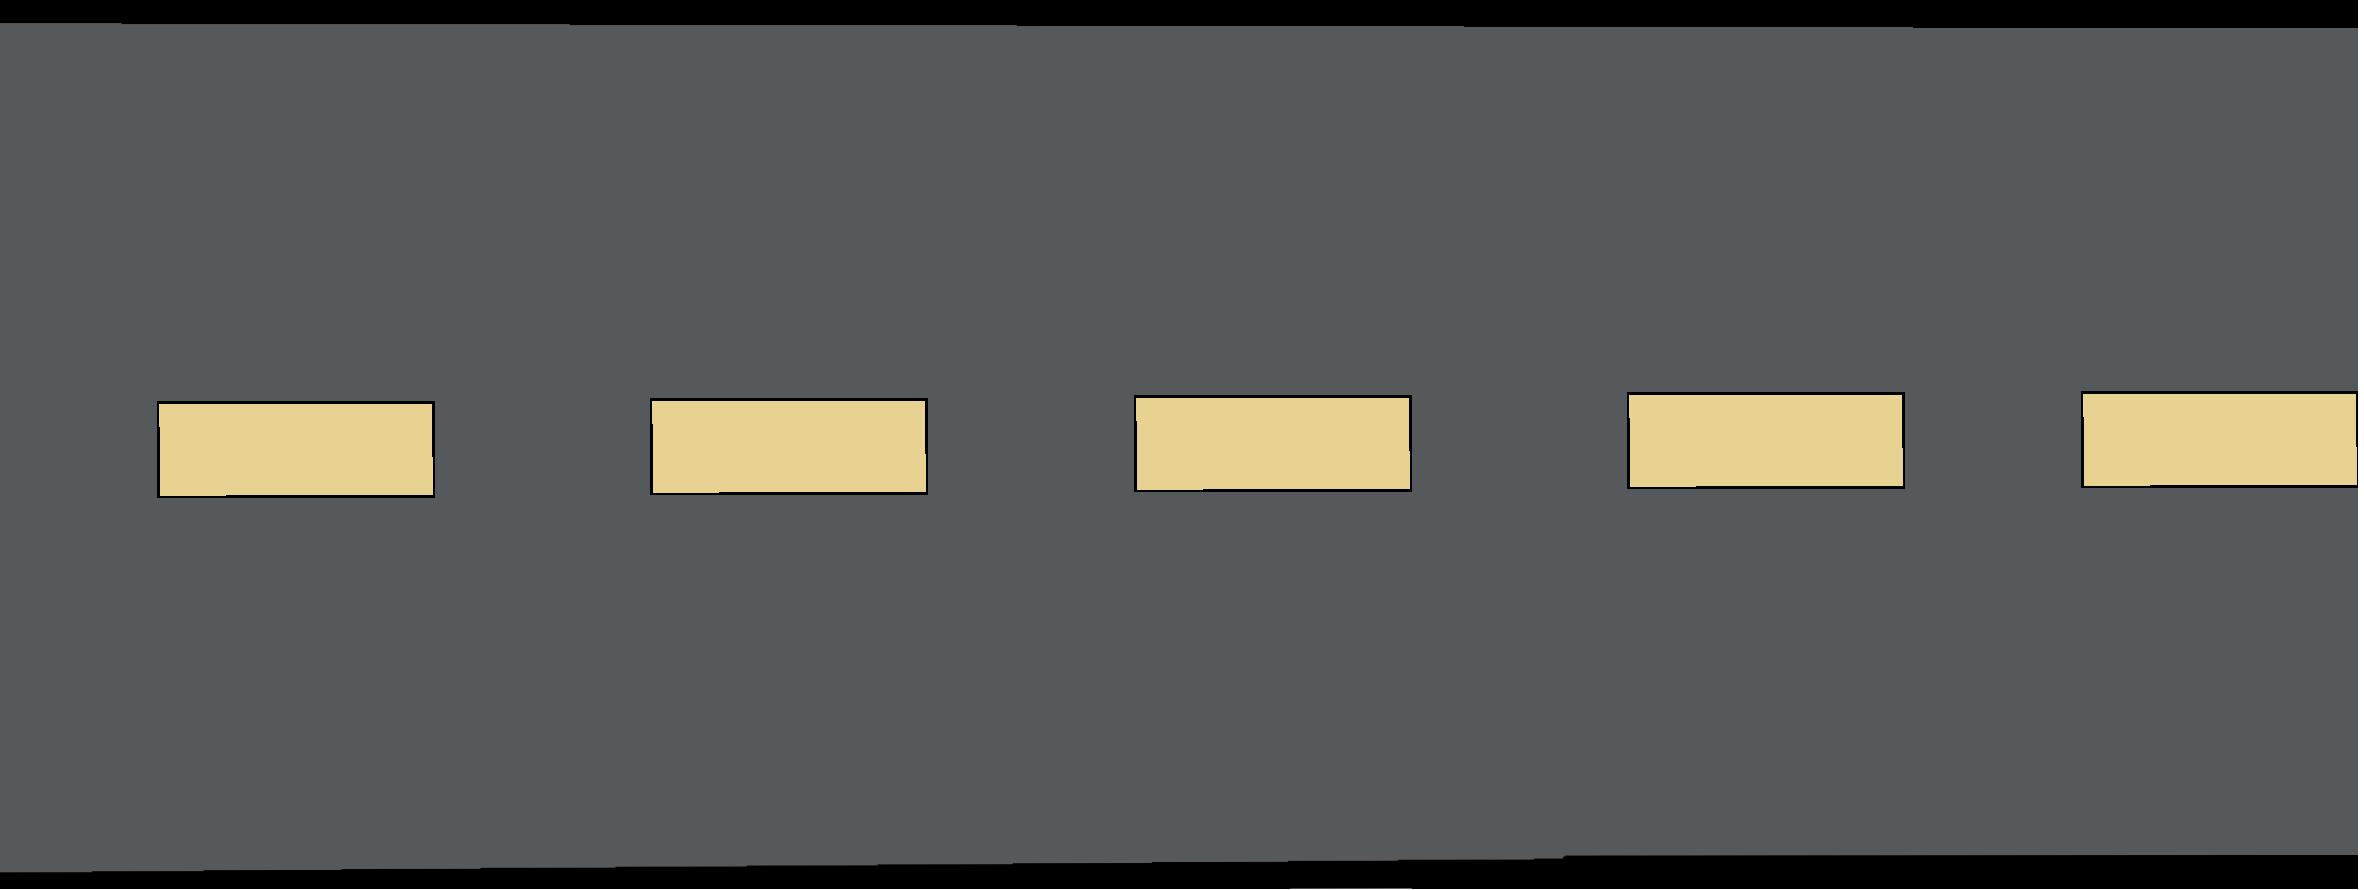
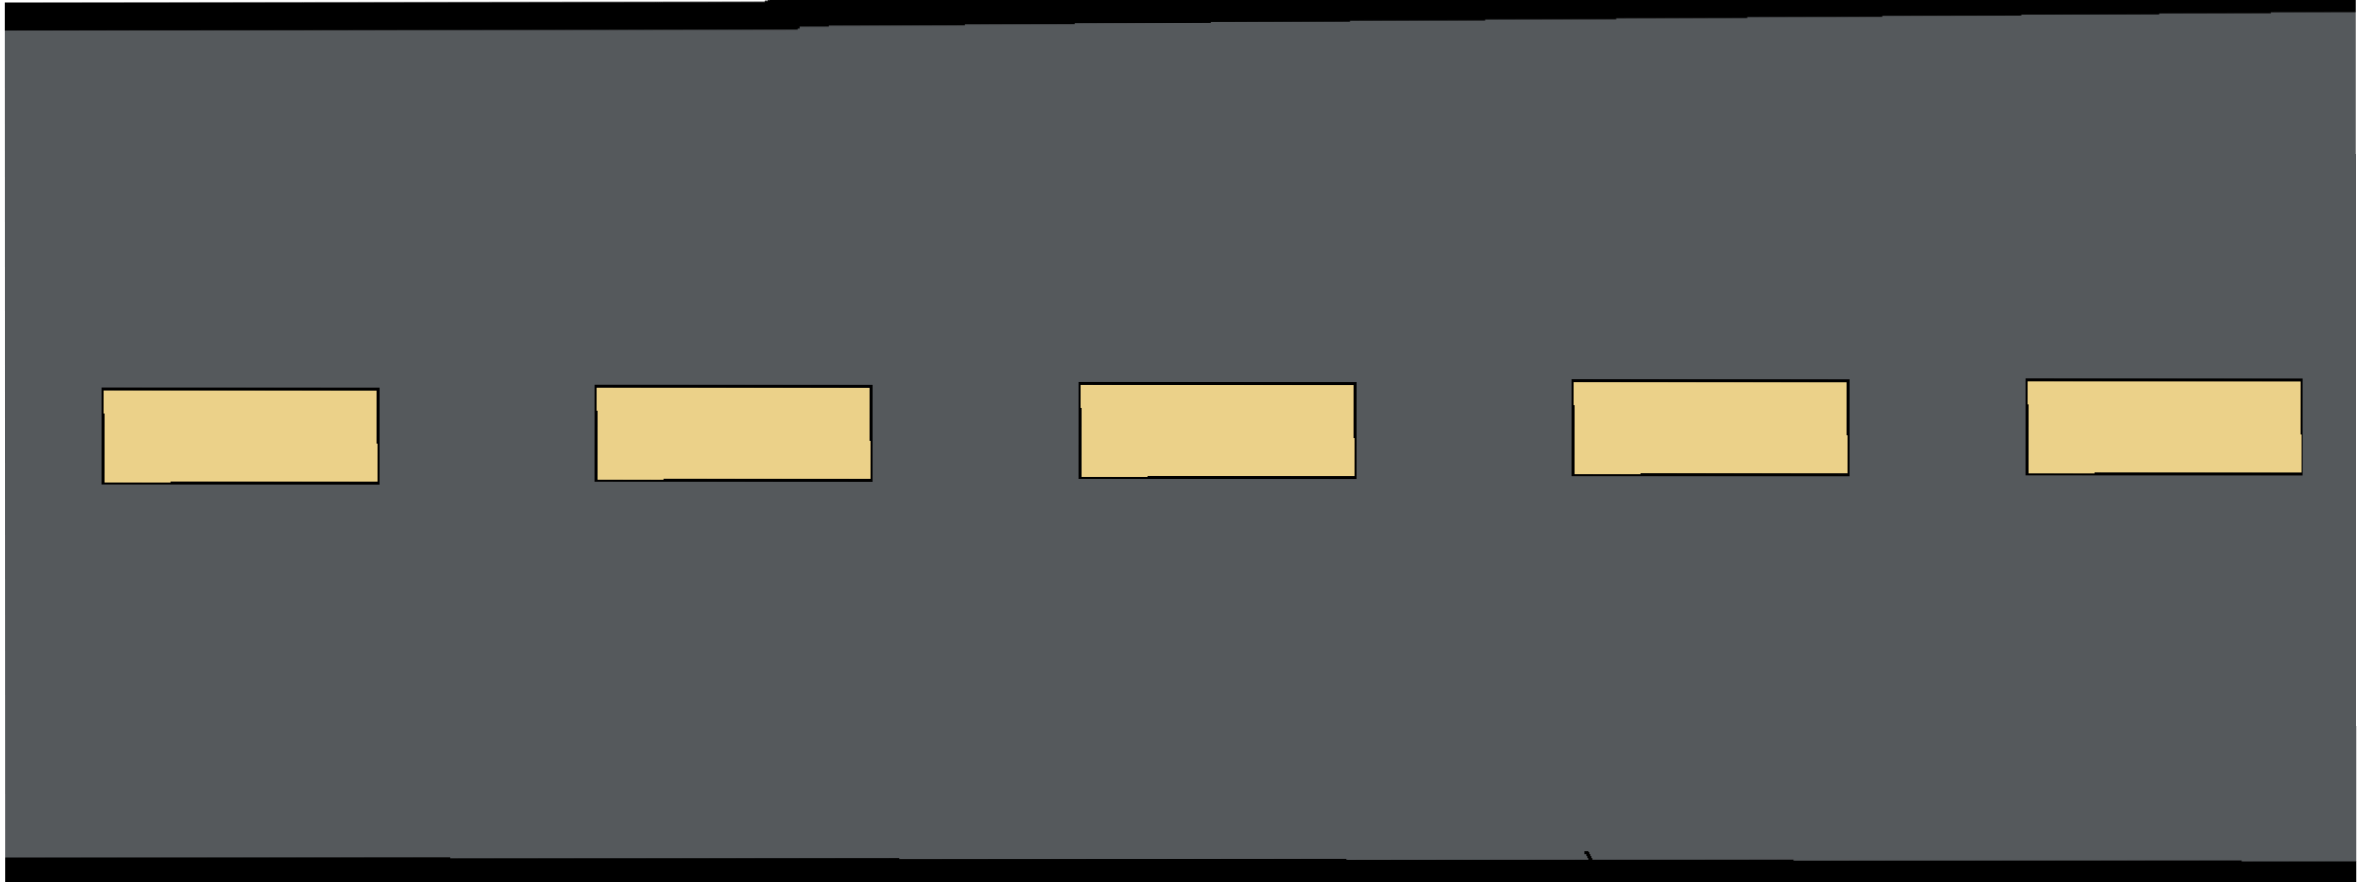
fix a few issues, but i can finally paint the railroad properly you do not know how happy i am about this

diff --git a/src/MyFrame.java b/src/MyFrame.java
@@ -18,8 +18,9 @@ public class MyFrame extends JFrame implements Runnable { //make this in charge 
     private ArrayList<Car> cars = new ArrayList<>();
     private ArrayList<Pothole> potholes = new ArrayList<>();
     private int timesGenerated;
-    private BufferedImage image;
     private Dimension size = Toolkit.getDefaultToolkit().getScreenSize();
+    private Railroad railroad = new Railroad((int) size.getWidth()); // Create an instance of Railroad
+    private Road road; // Create an instance of road
     private Thread thread;
     private Stopwatch s = new Stopwatch();
     private Sound sound = new Sound();
@@ -29,41 +30,43 @@ public class MyFrame extends JFrame implements Runnable { //make this in charge 
     private int timeLastFilled;
     private int lastBomb;
     private Train train;
-    private boolean collision = false;;
+    private boolean collision = false;
+    ;
+
     public MyFrame() throws IOException {
         setTitle("FWMC RADIO BAU BAU");
         setDefaultCloseOperation(EXIT_ON_CLOSE);
-        setSize((int) size.getWidth(), (int) size.getHeight());
+        setSize(500, 500);
         setLayout(null);
         setLocationRelativeTo(null);
 
         player = new Player();
-        Railroad railroad = new Railroad((int) size.getWidth()); // Create an instance of Railroad
+        road = new Road((int) size.getWidth());
 
         addKeyListener(player);
 
         setExtendedState(JFrame.MAXIMIZED_BOTH);
 
         add(player);
-        add(railroad);
+
+        railroad.setBounds(0, 100, (int) size.getWidth(), 120);
+        road.setBounds(0, (int) (size.getHeight() / 2) - 200, (int) size.getWidth(), (int) (size.getHeight() - 700));
 
         thread = new Thread(this);
         thread.start();
-
-        railroad.setBounds(0, 100, 200, 200);
 
         setVisible(true);
         gameLoop();
     }
 
+
     public void gameLoop() throws IOException {
-        while (!gameOver)
-        {
+        while (!gameOver) {
             long startTime = System.nanoTime();
             userKeyInput();
             player.run();
             checkCollision();
-//            checkPlayerPosition();
+            checkPlayerPosition();
             resetCombo();
             long totalTime = System.nanoTime() - startTime;
 
@@ -79,7 +82,7 @@ public class MyFrame extends JFrame implements Runnable { //make this in charge 
         }
     }
 
-    public void refresh(){
+    public void refresh() {
         revalidate();
         repaint();
     }
@@ -104,8 +107,7 @@ public class MyFrame extends JFrame implements Runnable { //make this in charge 
     }
 
     public void trainSummon() throws IOException, InterruptedException {
-        if (s.getTimePassed() % 8 == 0)
-        {
+        if (s.getTimePassed() % 8 == 0) {
             train = new Train(getWidth(), 100);
             add(train);
             repaint();
@@ -119,8 +121,7 @@ public class MyFrame extends JFrame implements Runnable { //make this in charge 
             timesGenerated = rand.nextInt(1, 4);
             int y_axis = rand.nextInt(300, 600);
             int x_axis = rand.nextInt(100, 600);
-            for (int i = 0; i < timesGenerated; i++)
-            {
+            for (int i = 0; i < timesGenerated; i++) {
                 potholes.add(new Pothole(x_axis, y_axis));
                 add(potholes.get(potholes.size() - 1));
             }
@@ -150,7 +151,7 @@ public class MyFrame extends JFrame implements Runnable { //make this in charge 
                 collision = true;
             }
         }
-        if (!collision){ //checks if you blew up a car
+        if (!collision) { //checks if you blew up a car
             potholes.add(new Pothole(bomb.getX(), bomb.getY())); //fix the thing where blowing up a car creates a pothole
             add(potholes.get(potholes.size() - 1));                                                    //this is the cause for the orange square
         }                                                 //bc that was supposed to be the pothole being created
@@ -163,19 +164,19 @@ public class MyFrame extends JFrame implements Runnable { //make this in charge 
         player.increaseScore((int) s.getTimePassed());
     }
 
-    public void resetCombo()
-    {
-        if (s.getTimePassed() - timeLastFilled > 4)
-        {
+    public void resetCombo() {
+        if (s.getTimePassed() - timeLastFilled > 4) {
             player.resetCombo();
         }
     }
 
     public void checkPlayerPosition() {
-        if (player.getX() < 0) player.setLocation(0, player.getY());
-        if (player.getX() > size.getWidth() - 500) player.setLocation((int) size.getWidth() - 500, player.getY());
-        if (player.getY() < 300) player.setLocation(player.getX(), 300);
-        if (player.getY() > size.getHeight() - 400) player.setLocation(player.getX(), (int) size.getHeight() - 400);
+        if (player.getX() < 0) player.setLocation(0, player.getY()); //left
+        if (player.getX() > size.getWidth() - 500)
+            player.setLocation((int) size.getWidth() - 500, player.getY()); //right
+        if (player.getY() < 300) player.setLocation(player.getX(), 300); //top
+        if (player.getY() > size.getHeight() - 400)
+            player.setLocation(player.getX(), (int) size.getHeight() - 400); //bottom
     }
 
     public void loseScreen() {
@@ -196,10 +197,8 @@ public class MyFrame extends JFrame implements Runnable { //make this in charge 
         }
     }
 
-    public void checkTrainPosition()
-    {
-        if (train != null && train.getX() <= -1000)
-        {
+    public void checkTrainPosition() {
+        if (train != null && train.getX() <= -1000) {
             remove(train);
             train = null;
             repaint();
@@ -248,6 +247,8 @@ public class MyFrame extends JFrame implements Runnable { //make this in charge 
 //                addPotholes();
 //                checkCarPositions();
                 checkTrainPosition();
+//                add(road);
+                add(railroad);
             } catch (IOException | InterruptedException e) {
                 throw new RuntimeException(e);
             }
@@ -256,7 +257,7 @@ public class MyFrame extends JFrame implements Runnable { //make this in charge 
 
             if (totalTime < targetTimeThread) {
                 try {
-                    Thread.sleep((targetTimeThread - totalTime) / 1000000);
+                    Thread.sleep((targetTimeThread - totalTime) / 1000000); //theoretically should only be running at 1 fps
                 } catch (InterruptedException e) {
                     for (Car car : cars)
                         car.killSound(false);

diff --git a/src/Road.java b/src/Road.java
@@ -1,0 +1,26 @@
+import javax.swing.*;
+import java.awt.*;
+
+public class Road extends JPanel{
+    private int width;
+    public Road(int width) {
+        this.setLayout(null);
+        this.width = width;
+    }
+    @Override
+    public void paintComponent(Graphics g) { //rahh
+        super.paintComponent(g);
+
+        // Paint your images
+        ImageIcon icon2 = new ImageIcon("ImageFiles/Images/background.jpg");
+        Image image2 = icon2.getImage();
+        Image newimg = image2.getScaledInstance(width, 300, Image.SCALE_SMOOTH);
+        icon2 = new ImageIcon(newimg);
+        g.drawImage(icon2.getImage(), 0, 0, this);
+    }
+
+    public void setSize(int width, int height) {
+        super.setSize(width, height);
+        repaint();  // Trigger a repaint to update the displayed image
+    }
+}

diff --git a/src/Railroad.java b/src/Railroad.java
@@ -5,7 +5,7 @@ public class Railroad extends JPanel {
 
     private int width;
 
-    /** Creates a new instance of Road */
+    /** Creates a new instance of railroad */
     public Railroad(int width) {
         this.setLayout(null);
         this.width = width;
@@ -21,5 +21,10 @@ public class Railroad extends JPanel {
         Image newimg = image1.getScaledInstance(width, 80, Image.SCALE_SMOOTH);
         icon1 = new ImageIcon(newimg);
         g.drawImage(icon1.getImage(), 0, 0, this);
+    }
+
+    public void setSize(int width, int height) {
+        super.setSize(width, height);
+        repaint();  // Trigger a repaint to update the displayed image
     }
 }

diff --git a/src/Player.java b/src/Player.java
@@ -26,6 +26,7 @@ public class Player extends JLabel implements KeyListener {
         Dimension size = Toolkit.getDefaultToolkit().getScreenSize();
         this.setBounds((int) size.getWidth() / 2, (int) size.getHeight() / 2, icon.getIconWidth(), icon.getIconHeight());
         this.setOpaque(true);
+        this.setBackground(Color.GRAY);
         playerHitbox = new Box(this.getX(), this.getY(), 50, 50);
     }
 
